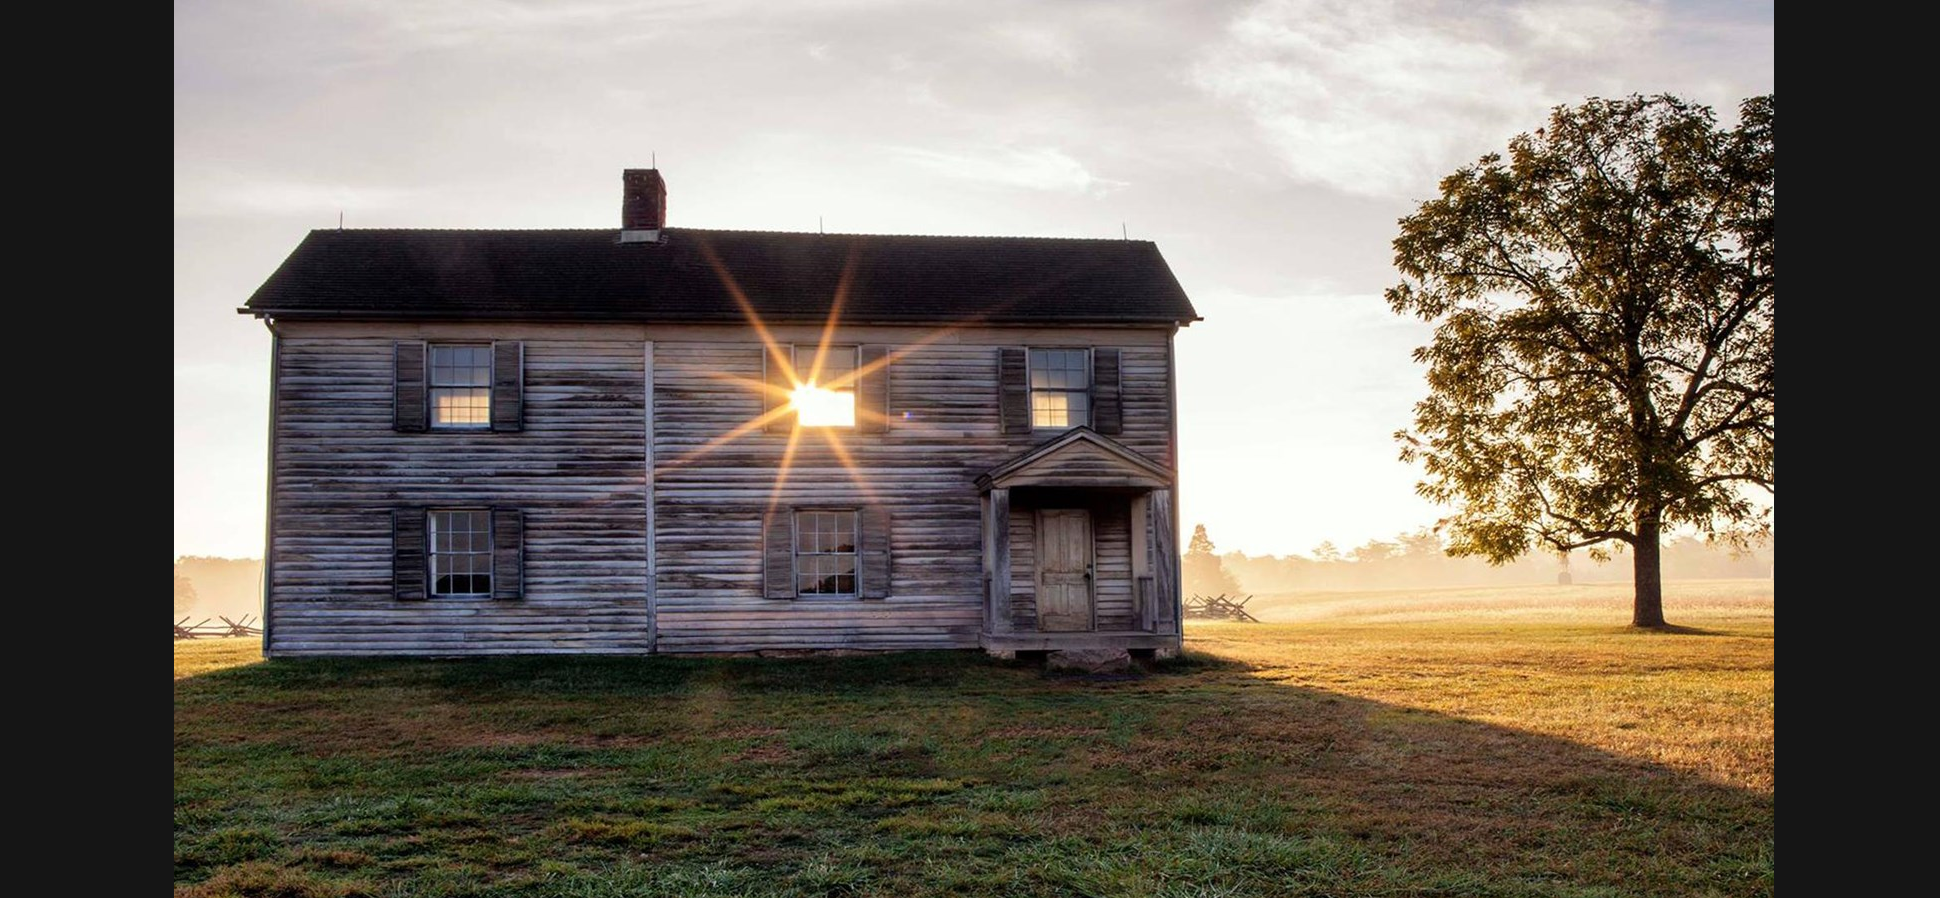
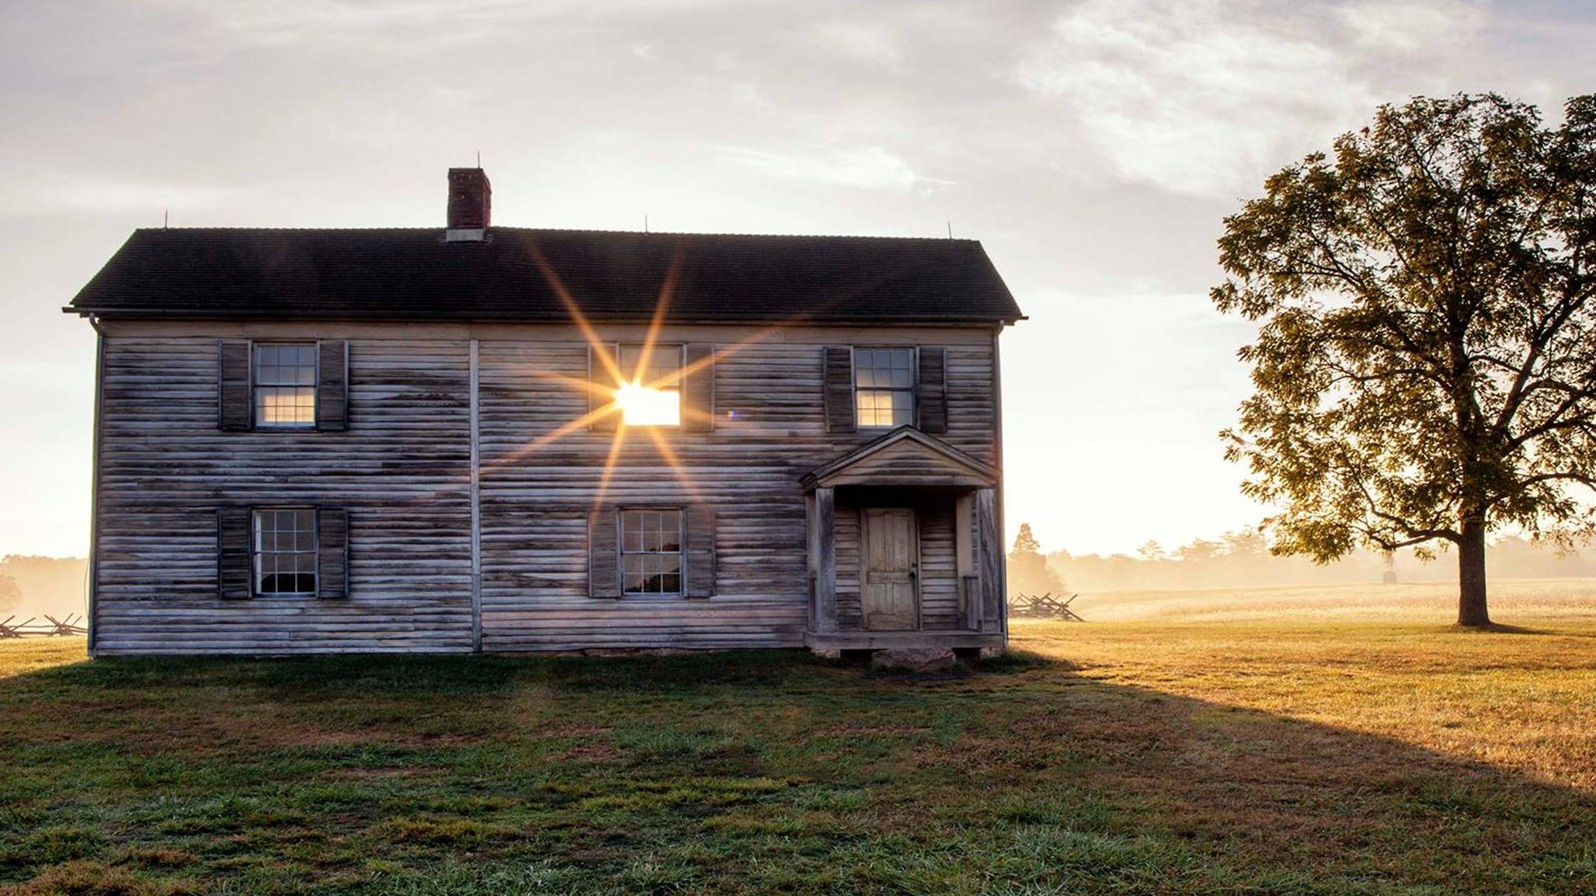
bg styled

diff --git a/frontend/src/components/HomePage/Home.css b/frontend/src/components/HomePage/Home.css
@@ -1,20 +1,32 @@
-.home-main-bg {
+.home-main-black-bg {
   height: calc(100vh - 80px);
-  background: url(house.png);
-  /* background: url(bgmaybe.png); */
-
   display: flex;
   justify-content: center;
-  align-items: center;
+  width: 100%;
+  background-color: black;
+  /* background: linear-gradient(to left, rgb(0, 0, 0), rgb(1, 0, 0)); */
+
+}
+
+
+.home-main-bg {
+  height: calc(100vh - 80px);
+  width: 1525px;
+  background: url(house.png);
+  border-radius: 1rem;
+  display: flex;
+  justify-content: center;
+  align-items: flex-end;
 }
 
 .home-main-bg h1 {
   margin: 0;
-  font-size: 8rem;
+  font-size: 5rem;
   color: rgb(238, 238, 238);
   background-color: rgb(39, 39, 255);
   padding: 0px 5px 2px 5px;
-  font-family:Arial, Helvetica, sans-serif
+  font-family:Arial, Helvetica, sans-serif;
+  border-radius: 1rem;
 }
 
 

diff --git a/frontend/src/components/HomePage/index.js b/frontend/src/components/HomePage/index.js
@@ -31,8 +31,10 @@ function HomePage() {
 
   return (
     <>
-      <div className='home-main-bg'>
-        <h1>Scroll To Find Places To Stay</h1>
+      <div className='home-main-black-bg'>
+        <div className='home-main-bg'>
+          <h1>Scroll To Find Places To Stay</h1>
+        </div>
       </div>
 
       <div className='home-below-main'>
@@ -60,7 +62,7 @@ function HomePage() {
             <div
               key={booking.id}
               className='home-bookings-div'
-              >
+            >
               <li
                 className='home-bookings-list'
                 onClick={() => history.push(`/locations/${booking.locationId}`)}
